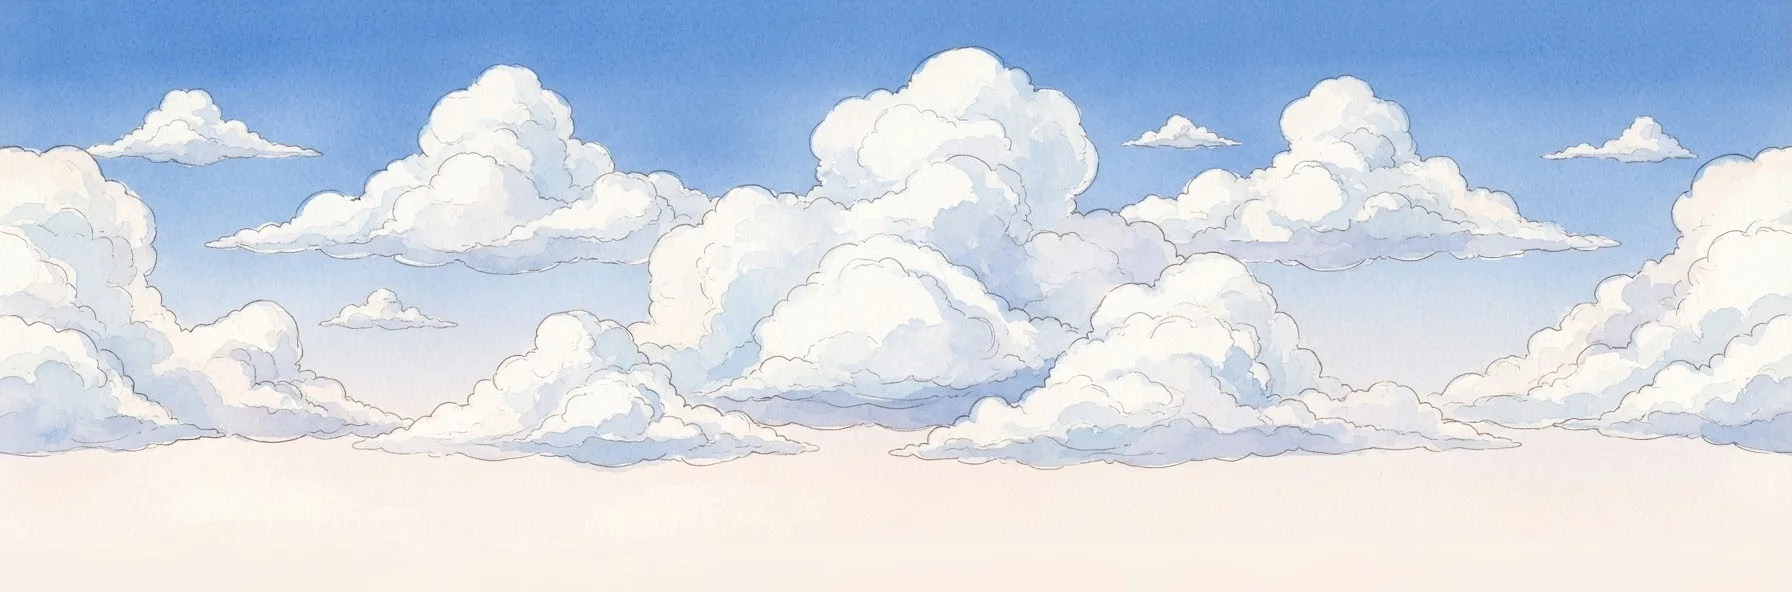
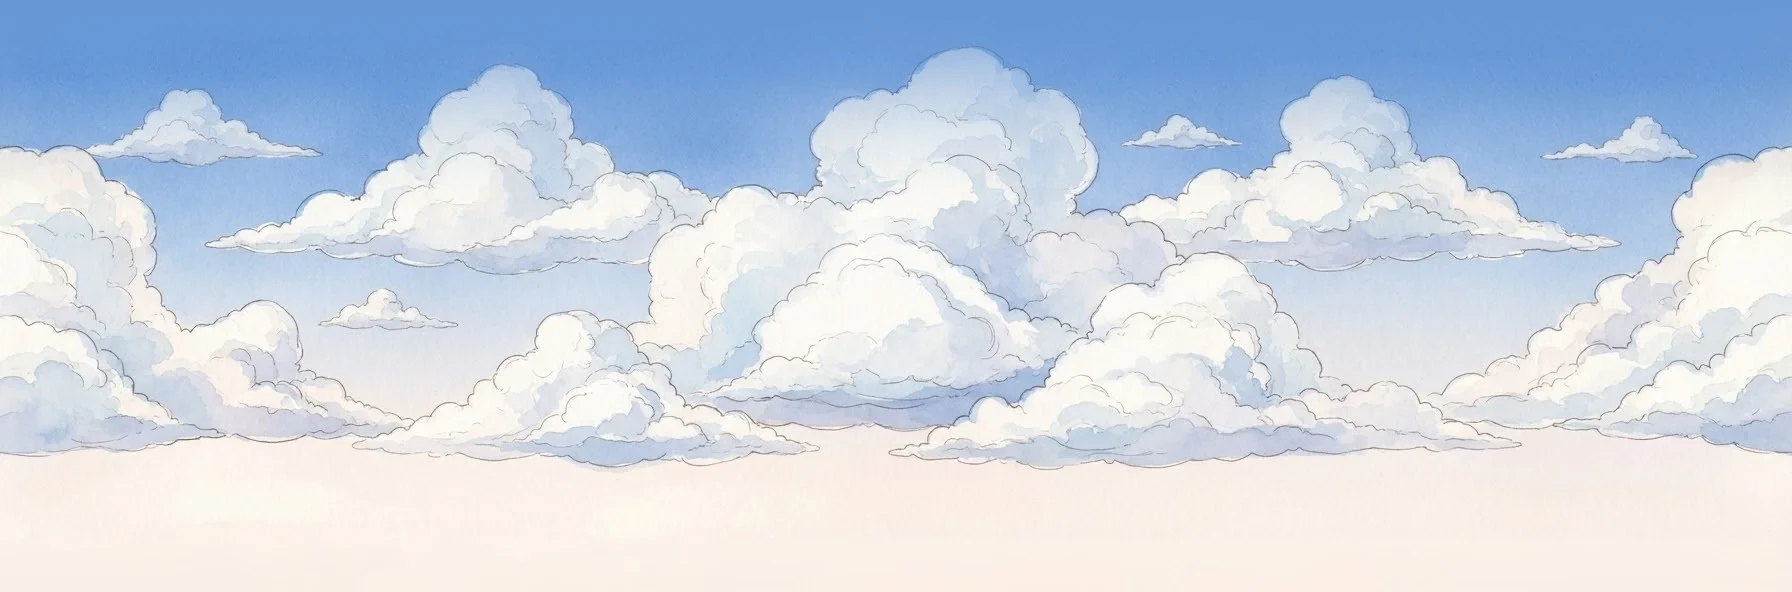
10.243 : nouveau Montmartre — ciel d'un seul tenant, trottoirs d'angle, panorama de Paris illuminé la nuit
Claude-Session: https://claude.ai/code/session_01WYc8bcxVUTnPR8YQxCHawi

diff --git a/public/montmartre2.js b/public/montmartre2.js
@@ -347,9 +347,9 @@ function construireMontmartre2(A, L, scene) {
   const CIEL = new THREE.Group(); scene.add(CIEL); L.__ciel = CIEL;
   const ciel = (n, rep, haut) => { const t = tx(n); t.wrapS = THREE.MirroredRepeatWrapping; t.repeat.set(rep, 1); const g = new THREE.Group(); const m = new THREE.Mesh(new THREE.CylinderGeometry(130, 130, 120, 48, 1, true), new THREE.MeshBasicMaterial({ map: t, side: THREE.BackSide, fog: false })); g.add(m);
     const c = new THREE.Mesh(new THREE.CircleGeometry(130, 48), new THREE.MeshBasicMaterial({ color: haut, side: THREE.DoubleSide, fog: false })); c.rotation.x = Math.PI / 2; c.position.y = 59.9; g.add(c); CIEL.add(g); return g; };
-  const CJ = ciel("ciel_jour", 3, 0x4f7fc6), CN = ciel("ciel_nuit", 5, 0x0e3a56); CN.visible = false; CIEL.position.y = 42;
+  const CJ = ciel("ciel_jour", 3, 0x6898d6), CN = ciel("ciel_nuit", 5, 0x07384d);   /* (10.243 : le haut des ciels peints fondu dans la couleur du dessus — plus de raccord) */ CN.visible = false; CIEL.position.y = 42;
   L.sansLune = true;
-  L.vueCour = (n) => { CJ.visible = !n; CN.visible = n; L.__panoM.map = L.__panoT[n ? 1 : 0]; L.__panoM.needsUpdate = true; scene.background = new THREE.Color(n ? 0x0e3a56 : 0x9cc0e6); if (scene.fog) { scene.fog.color.setHex(n ? 0x1c3a56 : 0xe8e4dc); scene.fog.near = 70; scene.fog.far = 230; }
+  L.vueCour = (n) => { CJ.visible = !n; CN.visible = n; L.__panoM.map = L.__panoT[n ? 1 : 0]; L.__panoM.needsUpdate = true; scene.background = new THREE.Color(n ? 0x07384d : 0x6898d6); if (scene.fog) { scene.fog.color.setHex(n ? 0x1c3a56 : 0xe8e4dc); scene.fog.near = 70; scene.fog.far = 230; }
     for (const o of scene.children) if (o.isMesh && o.renderOrder === -1 && o.geometry && o.geometry.type === "SphereGeometry") o.visible = false;   /* (le dôme de nuages de la matrice : nos ciels peints le remplacent) */
     for (const [m, j, nn] of NUIT) m.emissiveIntensity = n ? nn : j; for (const f of JOUR_NUIT) f(n); };
   // ---------- le retour : un cercle violet devant le métro, vers la cour d'honneur ----------

diff --git a/public/index.html b/public/index.html
@@ -3366,6 +3366,7 @@
 
   /* ===== Version de l'appli et nouveautés (la plus récente en premier) ===== */
   const VERSIONS = [
+    ["10.243", "24 novembre 2026", ["Nouveau Montmartre : trottoirs d'angle continus, un ciel d'un seul tenant, le panorama fondu dans le ciel et Paris illuminé la nuit"]],
     ["10.242", "24 novembre 2026", ["Nouveau Montmartre : toits en volume (zinc, cuivre, tuiles, lucarnes, cheminées, garde-corps), pans coupés aux angles, vitrines avec leur intérieur partout, on passe enfin des rues aux places et sur les trottoirs"]],
     ["10.241", "24 novembre 2026", ["Le nouveau Montmartre en entier : métro Abbesses en 3D, rue Norvins, place du Tertre et carré des peintres, escaliers et pelouse fleurie, funiculaire, terrasse face à Paris, Sacré-Cœur en relief, trottoirs devant les façades (réservé pour l'instant)"]],
     ["10.240", "24 novembre 2026", ["Le nouveau Montmartre peint : toutes les façades en relief, arbres, bancs et réverbères en volume, des couleurs variées (réservé pour l'instant)"]],

diff --git a/public/sw.js b/public/sw.js
@@ -1,7 +1,7 @@
 // Service worker : permet d'installer l'appli (Android, iPhone, PC) et de l'ouvrir sans réseau.
 // Les pages sont servies « réseau d'abord » (toujours la dernière version), les images « cache d'abord ».
 // Le courrier et le registre (/api/) ne sont jamais mis en cache.
-const CACHE = "caserne-nf-v1070";
+const CACHE = "caserne-nf-v1071";
 const SHELL = ["/", "/images/garde.jpg", "/images/pierre.jpg", "/images/escaliers/brique.jpg", "/manifest.webmanifest", "/icons/icon-192.png"];
 
 self.addEventListener("install", e => {
